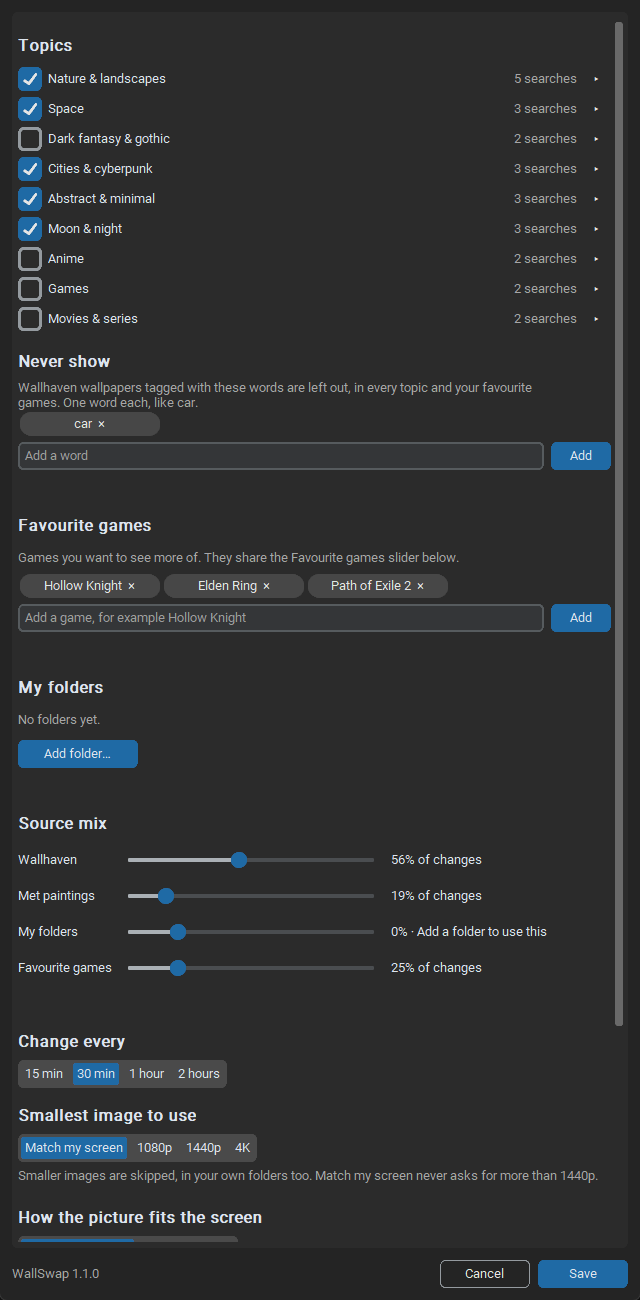
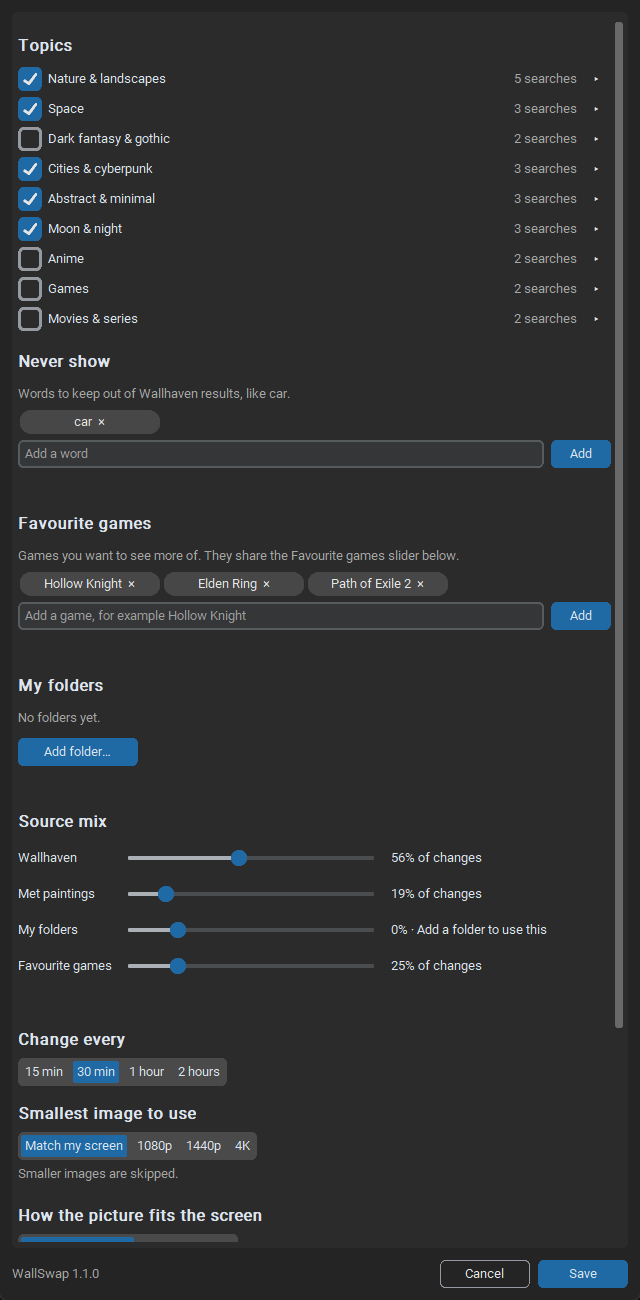
fix: shorter hints in the settings window

diff --git a/settings_window.py b/settings_window.py
@@ -318,8 +318,7 @@ class SettingsWindow(ctk.CTkToplevel):
 
     def _build_exclude(self, body):
         self._heading(body, "Never show")
-        ctk.CTkLabel(body, text="Wallhaven wallpapers tagged with these words are left out, in every topic and "
-                                "your favourite games. One word each, like car.", text_color=HINT_COLOR, anchor="w",
+        ctk.CTkLabel(body, text="Words to keep out of Wallhaven results, like car.", text_color=HINT_COLOR, anchor="w",
                      justify="left", wraplength=560).pack(fill="x")
         self._exclude = TagList(body, self._snapshot["exclude_words"], self.deps.clean_exclude or (lambda t, e: None),
                                 placeholder="Add a word", problem=self.deps.exclude_problem)
@@ -379,8 +378,7 @@ class SettingsWindow(ctk.CTkToplevel):
         # A hand-set value that isn't one of the choices behaves as the first one (match the screen) and is kept
         self._resolution.set(self.deps.resolution_labels.get(stored) or next(iter(self._resolution_by_label), ""))
         self._resolution.pack(anchor="w")
-        ctk.CTkLabel(body, text="Smaller images are skipped, in your own folders too. Match my screen never asks "
-                                "for more than 1440p.", text_color=HINT_COLOR, anchor="w").pack(fill="x")
+        ctk.CTkLabel(body, text="Smaller images are skipped.", text_color=HINT_COLOR, anchor="w").pack(fill="x")
 
     def _build_fit(self, body):
         self._heading(body, "How the picture fits the screen")
@@ -389,20 +387,20 @@ class SettingsWindow(ctk.CTkToplevel):
         # A hand-set value that isn't one of the choices behaves as the first one (leave Windows alone) and is kept
         self._fit.set(self.deps.fit_labels.get(self._snapshot["wallpaper_fit"]) or next(iter(self._fit_by_label), ""))
         self._fit.pack(anchor="w")
-        ctk.CTkLabel(body, text="Fill crops the edges, Fit shows the whole picture, Span stretches one picture "
-                                "across all screens.", text_color=HINT_COLOR, anchor="w").pack(fill="x")
+        ctk.CTkLabel(body, text="Span puts one picture across all your screens.", text_color=HINT_COLOR,
+                     anchor="w").pack(fill="x")
 
     def _build_updates(self, body):
         self._heading(body, "Internet")
-        self._updates = ctk.CTkSwitch(body, text="Tell me when a new version is out (checks GitHub once a day)")
+        self._updates = ctk.CTkSwitch(body, text="Tell me when a new version is out")
         if self._snapshot["check_for_updates"]:
             self._updates.select()
         self._updates.pack(anchor="w")
-        self._metered = ctk.CTkSwitch(body, text="Download on metered connections (phone hotspot, capped plan)")
+        self._metered = ctk.CTkSwitch(body, text="Download on metered connections")
         if self._snapshot["metered_downloads"]:
             self._metered.select()
         self._metered.pack(anchor="w", pady=(6, 0))
-        ctk.CTkLabel(body, text="Off: on a metered connection only your own folders are used.",
+        ctk.CTkLabel(body, text="Off: on a hotspot or capped plan, only your own folders are used.",
                      text_color=HINT_COLOR, anchor="w").pack(fill="x")
 
     def _build_startup(self, body):
